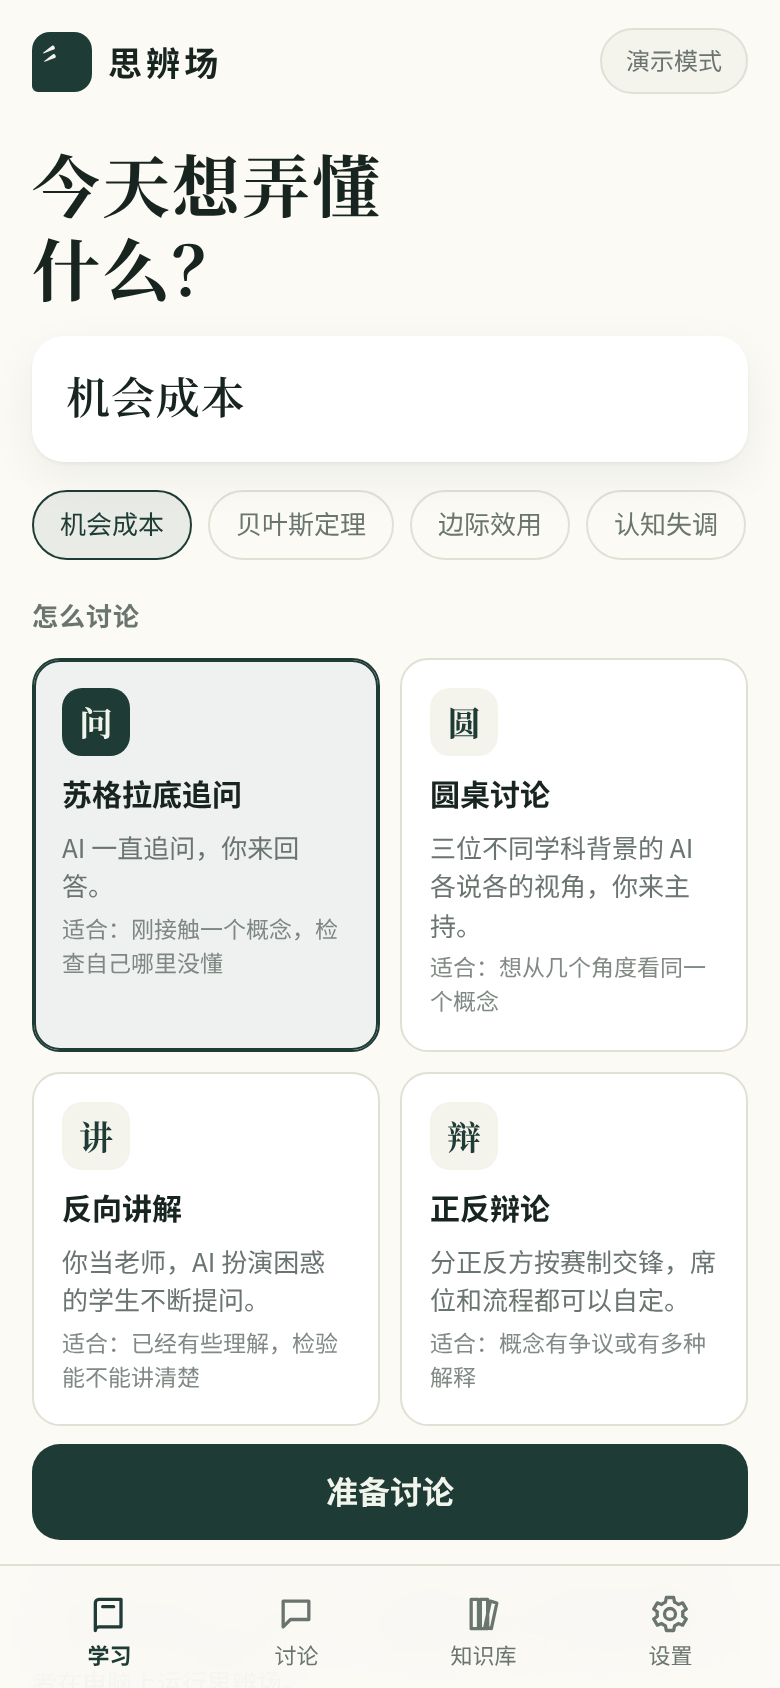
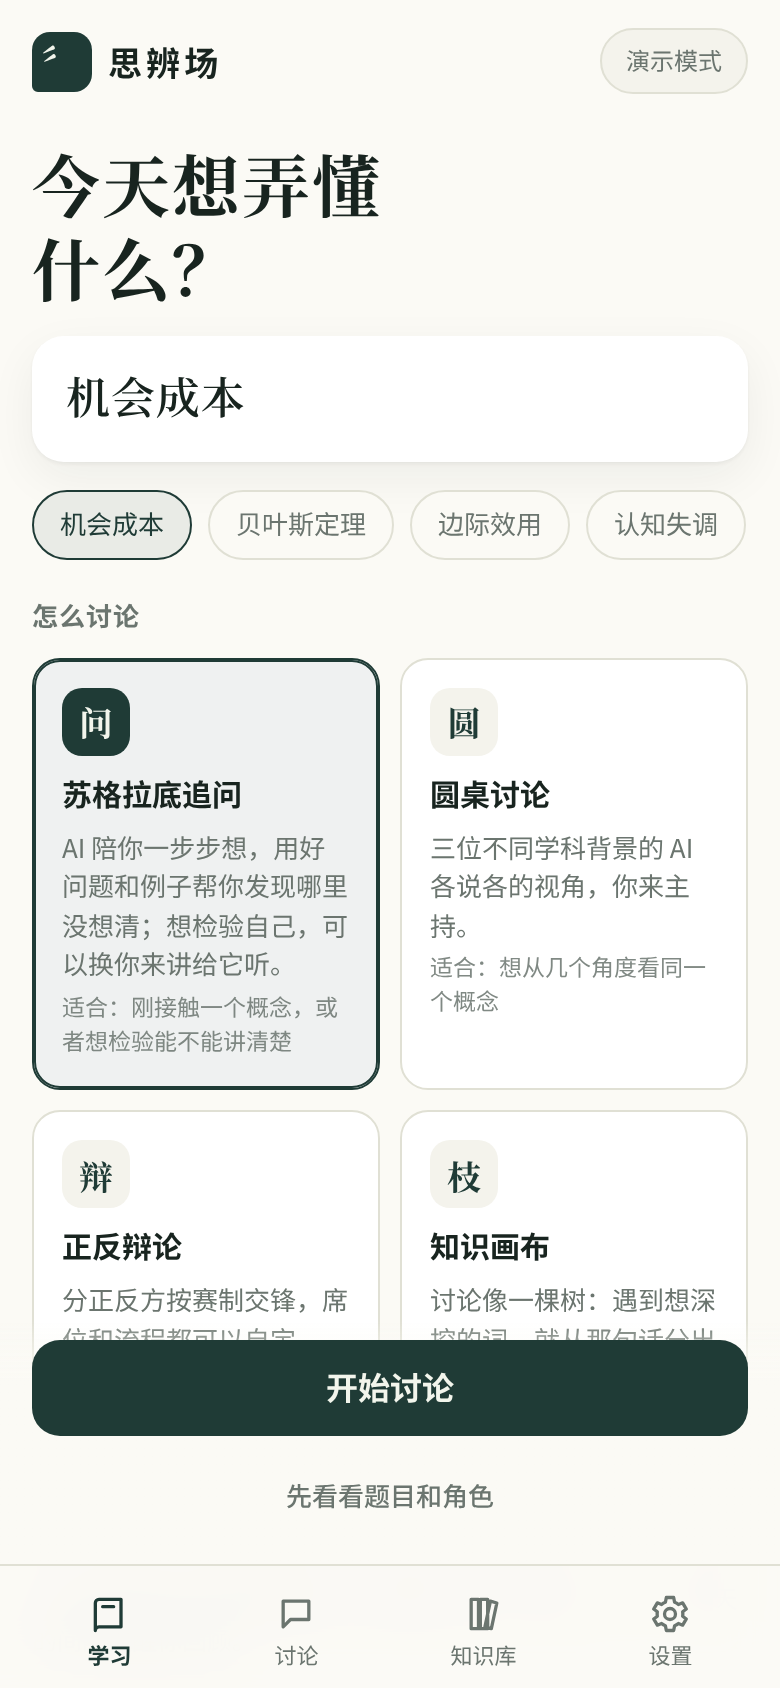
feat: 一句话开始：写下概念直接开聊，准备页变成可选 (#67)
#39 说门槛太高：写概念 → 准备讨论 → 准备页 → 开始讨论，要点两次才能聊上。
现在学习页的主按钮是“开始讨论”，准备好就直接进讨论（回车同样）；想先看题目
和角色、或要邀请同学，点下面的“先看看题目和角色”走原来的准备页。准备出来的
东西有问题（比如辩论里没有“我”的席位）时停在准备页并说明原因。

从学习页直接进讨论按“往里走”的方向过渡（原来学习和讨论是平级标签，会左右滑）。

Closes #66

Claude-Session: https://claude.ai/code/session_01RzFBQam7wxXkvvADZrf93f

Changed region(s): [[0.0308, 0.4929, 0.9846, 0.9242]]

diff --git a/src/actions.ts b/src/actions.ts
@@ -1,6 +1,7 @@
 // 学习流程的所有操作：准备 → 讨论 → 小结 → 复盘 → 知识库
 import type { ChatMessage, ExplainKind, PointSuggestion, Previous, Review, SessionSnapshot, Team, TermCard } from '../shared/types.ts';
 import { getState, go, toast, uid, update } from './store.ts';
+import { forceNav } from './lib/motion.ts';
 import type { Card, Config, Screen, Session } from './store.ts';
 import { runAI } from './lib/ai.ts';
 import { clearLive } from './lib/stream.ts';
@@ -40,7 +41,8 @@ const markCovered = (s: Session, list: number[] = []) => { for (const i of list)
 export const currentTurn = (s: Session | null) => s && s.mode === 'debate' && !s.finished ? s.turns[s.cursor] ?? null : null;
 
 /* ---------- 准备 ---------- */
-export async function prepare(previous: Previous | null = null, knownContext?: string) {
+// then：'start' 是“一句话开始”，准备好直接进讨论（#39：门槛太高）；'review' 先停在准备页看看、改改题目和角色
+export async function prepare(previous: Previous | null = null, knownContext?: string, then: 'review' | 'start' = 'review') {
   const { config, ui, plan } = getState();
   const concept = config.concept.trim();
   if (!concept) return toast('先写下你想弄懂的概念。');
@@ -60,8 +62,14 @@ export async function prepare(previous: Previous | null = null, knownContext?: s
     };
     applyDebaters(s.config, d.debaters);
     s.ui.context = null;
-    s.ui.screen = 'prepare';
+    if (then === 'review') s.ui.screen = 'prepare';
   });
+  if (then !== 'start') return;
+  // 准备出来的东西有问题（比如辩论里没有“我”的席位）：停在准备页，说清楚哪里要改
+  const problem = planProblem();
+  if (problem) { toast(problem); return go('prepare'); }
+  forceNav('forward');
+  startSession();
 }
 const personasOf = (roles: { name: string; title: string; persona: string }[]) =>
   roles.map((r, i) => ({ id: 'r' + i, tone: TONES[i % 3], name: r.name, title: r.title, persona: r.persona }));

diff --git a/src/screens/Learn.tsx b/src/screens/Learn.tsx
@@ -42,7 +42,7 @@ export function Learn() {
             <CaretField fieldRef={conceptRef}>
               <input id="concept" ref={conceptRef} value={config.concept} maxLength={80} placeholder="写下一个概念，比如：机会成本" disabled={busy}
                 onChange={e => update(s => { s.config.concept = e.target.value; s.ui.context = null; })}
-                onKeyDown={e => { if (e.key === 'Enter' && !e.nativeEvent.isComposing) prepare(); }} />
+                onKeyDown={e => { if (e.key === 'Enter' && !e.nativeEvent.isComposing) void prepare(null, undefined, 'start'); }} />
             </CaretField>
           </label>
           <div className="chips scroll-x" role="list">
@@ -82,7 +82,9 @@ export function Learn() {
       <div className="dock">
         <ErrorBanner />
         <BusyStrip />
-        <button className="primary block" disabled={busy || !config.concept.trim() || (!!ui.context && !ui.context.text.trim())} onClick={() => prepare()}>{ui.context ? '按这个经过准备讨论' : '准备讨论'}</button>
+        {/* 一句话开始：写下概念就进讨论；想先看看题目、要点和角色（或者邀请同学），走准备页 */}
+        <button className="primary block" disabled={busy || !config.concept.trim() || (!!ui.context && !ui.context.text.trim())} onClick={() => prepare(null, undefined, 'start')}>{ui.context ? '按这个经过开始讨论' : '开始讨论'}</button>
+        <button className="link quiet-link" disabled={busy || !config.concept.trim() || (!!ui.context && !ui.context.text.trim())} onClick={() => prepare()}>先看看题目和角色{config.mode === 'roundtable' || config.mode === 'debate' ? '，或邀请同学' : ''}</button>
       </div>
     </div>
   );

diff --git a/tests/flow.test.ts b/tests/flow.test.ts
@@ -476,3 +476,21 @@ test('in the Android app, invite links point at the public web app and the local
     delete (globalThis as Record<string, unknown>).location;
   }
 });
+
+test('one-sentence start (#39): write a concept and go straight into the discussion; the prepare page is optional', async () => {
+  update(s => { s.config.concept = '机会成本'; s.config.mode = 'socratic'; s.ui.screen = 'learn'; });
+  await actions.prepare(null, undefined, 'start');
+  assert.equal(getState().ui.screen, 'session');
+  assert.ok(getState().session, 'the discussion started with the prepared topic and points');
+  assert.equal(getState().session!.topic, getState().plan!.topic);
+  // 想先看看：停在准备页
+  update(s => { s.ui.screen = 'learn'; });
+  await actions.prepare();
+  assert.equal(getState().ui.screen, 'prepare');
+  // 准备出来的东西有问题：停在准备页并说明原因，而不是进一场缺东西的讨论
+  update(s => { s.config.mode = 'debate'; s.ui.screen = 'learn'; for (const t of ['A', 'B'] as const) s.config.seats[t] = s.config.seats[t].map(x => ({ ...x, type: 'ai' })); });
+  const before = getState().session?.id;
+  await actions.prepare(null, undefined, 'start');
+  assert.equal(getState().ui.screen, 'prepare');
+  assert.equal(getState().session?.id, before, 'no new session without a seat for the learner');
+});

diff --git a/src/lib/motion.ts b/src/lib/motion.ts
@@ -13,7 +13,11 @@ const DEPTH: Record<Screen, number> = { learn: 0, library: 0, settings: 0, join:
 const TABS: Screen[] = ['learn', 'session', 'library', 'settings'];
 
 export type Nav = 'forward' | 'back' | 'left' | 'right' | 'expand' | 'collapse' | 'open' | 'close' | 'swap';
+// 有的导航方向从页面层级看不出来：从学习页“一句话开始”直接进讨论，是往里走，不是切标签
+let forced: Nav | null = null;
+export const forceNav = (kind: Nav) => { forced = kind; };
 export function navKind(from: View, to: View): Nav {
+  if (forced) { const k = forced; forced = null; return k; }
   if (from.screen !== to.screen) {
     // 知识库的卡片点开时长成整页，返回时缩回列表里原来的位置
     if (from.screen === 'library' && to.screen === 'card') return 'expand';
@@ -52,7 +56,7 @@ export const holdingRenders = () => capturing;
 export function transition(from: View, to: View, commit: () => void) {
   const toTop = from.screen !== to.screen;
   const apply = () => { commit(); if (toTop) globalThis.scrollTo?.({ top: 0 }); };
-  if (!canAnimate()) return apply();
+  if (!canAnimate()) { forced = null; return apply(); }
   const kind = navKind(from, to);
   const root = document.documentElement;
   root.dataset.nav = kind;

diff --git a/src/styles.css b/src/styles.css
@@ -104,6 +104,8 @@ code { font-size: .9em; background: var(--bg); padding: 1px 5px; border-radius: 
 .small { min-height: 36px; padding: 0 12px; font-size: 14px; border-radius: 10px; }
 .block { width: 100%; }
 .link { color: var(--accent); font-size: 13px; font-weight: 600; padding: 4px 6px; }
+/* 主按钮下面的次要选择：不抢主按钮的风头，但要好点 */
+.dock .quiet-link { align-self: center; min-height: 44px; padding-inline: 12px; color: var(--muted); font-weight: 500; }
 .icon-btn { display: grid; place-items: center; width: 44px; height: 44px; border-radius: 12px; color: var(--ink); }
 .icon-btn:hover:not(:disabled) { background: var(--bg); }
 .icon-btn.small { width: 32px; height: 32px; border-radius: 9px; color: var(--muted); }

diff --git a/docs/guide/learning-flow.md b/docs/guide/learning-flow.md
@@ -4,11 +4,15 @@
 
 ## 1. 写下概念
 
-在 **学习** 页写下一个概念，选一种[讨论方式](./modes)。概念越具体越好：“贝叶斯定理”比“概率论”更适合一次讨论。
+在 **学习** 页写下一个概念，选一种[讨论方式](./modes)，点 **开始讨论**（或者直接按回车）。概念越具体越好：“贝叶斯定理”比“概率论”更适合一次讨论。
+
+想先看看 AI 出的题目、要点和角色再开始，或者要邀请同学一起讨论，点按钮下面的 **先看看题目和角色**，会先停在准备页。
 
 <img class="shot" src="/screenshots/learn.png" alt="学习首页">
 
 ## 2. 准备
+
+点了“开始讨论”，下面这些在后台准备好就直接进讨论；点了“先看看题目和角色”，会停在准备页给你改。
 
 如果你写的是一件具体的事（比如某个群里的一场争论），而 AI 不了解经过，它会先请你用一两句话交代背景，再出题。之后的讨论、提示和复盘都以你写的经过为准，AI 不会自己编细节；准备页上还可以改。
 

diff --git a/docs/guide/getting-started.md b/docs/guide/getting-started.md
@@ -44,5 +44,4 @@
 ## 第一次讨论
 
 1. 在 **学习** 页写下一个概念，选择一种讨论方式。不确定选哪个就用“苏格拉底追问”。
-2. 点 **准备讨论**，看一眼要点和讨论题，觉得不合适可以直接改。
-3. 点 **开始讨论**。接下来的事，见[一次学习的流程](./learning-flow)。
+2. 点 **开始讨论**。AI 准备好题目和要点，就直接开始聊。想先看看、改改题目和角色，点下面的 **先看看题目和角色**。接下来的事，见[一次学习的流程](./learning-flow)。

diff --git a/docs/guide/multiplayer.md b/docs/guide/multiplayer.md
@@ -15,7 +15,7 @@
 
 ## 房主：创建房间
 
-1. 在 **学习** 页写下概念，选择 **圆桌讨论** 或 **正反辩论**，点 **准备讨论**。
+1. 在 **学习** 页写下概念，选择 **圆桌讨论** 或 **正反辩论**，点下面的 **先看看题目和角色，或邀请同学**。
 2. 在准备页检查讨论题和要点，点底部的 **邀请同学一起讨论**。
 3. 写下你在讨论里显示的名字，点 **创建房间**。
 4. 复制邀请链接发给同学。之后也可以在讨论页顶部点 **邀请** 再次打开。
